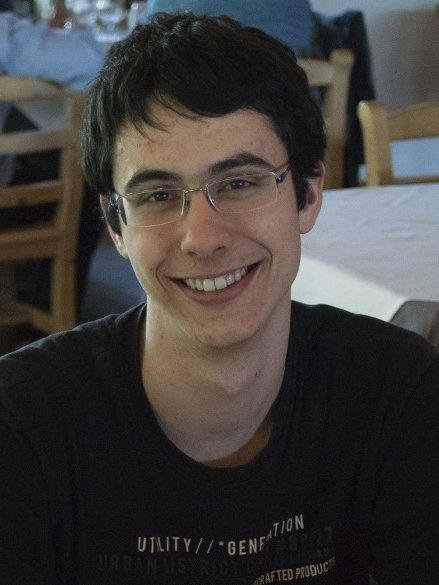
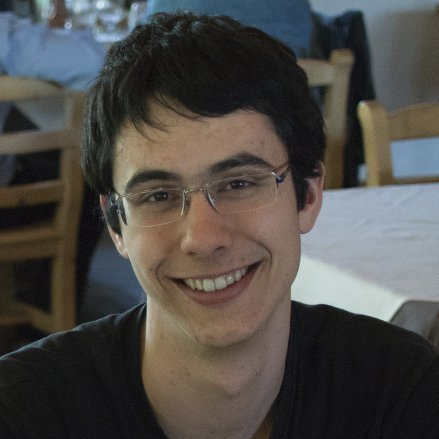
Update board.yml and post.html, add images for board members

diff --git a/_layouts/post.html b/_layouts/post.html
@@ -30,7 +30,7 @@ layout: default
 
                 <div class="border rounded-4 mb-3 shadow-sm p-3 pb-0 bg-body-primary">
 
-                    <h1 class="display-5 fw-bold text-center">{{page.title}}</h1>
+                    <h5 class="display-6 fw-bold text-center">{{page.title}}</h5>
                     <hr>
 
                 {{content}}

diff --git a/pages/index.html b/pages/index.html
@@ -8,6 +8,7 @@ pagination:
 ---
 {% if paginator.page == paginator.first_page %}
 <h2>Neuste Posts</h2>
+<hr>
 {%else%}
 <div class="row align-items-center">
     <h2 class="col-3 mb-0">Seite {{paginator.page}}</h2>
